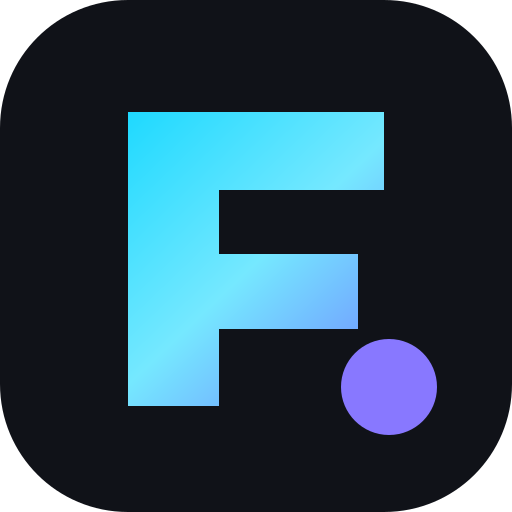
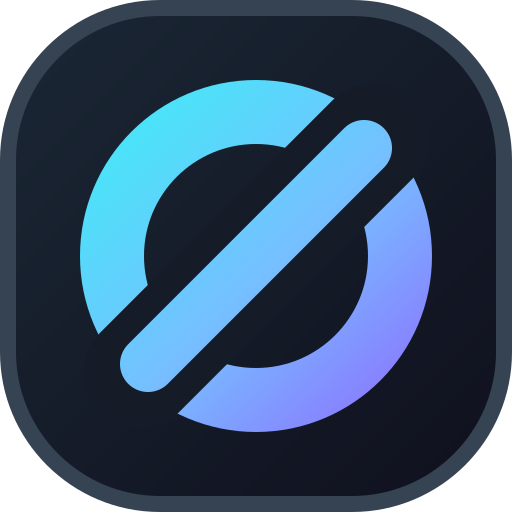
Refresh FlipZero brand and rename landing community to FlipZero HQ (0.9.5)

diff --git a/app/page.tsx b/app/page.tsx
@@ -1,5 +1,6 @@
 import Link from "next/link";
 import { ArrowRight, BookOpen, CalendarDays, Check, ChevronRight, Gamepad2, Hash, KanbanSquare, MessageCircle, Mic2, MonitorUp, ShieldCheck, Sparkles, Trophy, Video } from "lucide-react";
+import { BrandMark } from "@/components/brand-mark";
 
 const features = [
   { icon: MessageCircle, title: "Чаты без ограничений", text: "Личные разговоры, групповые чаты и каналы сообществ. Ответы, реакции, треды, файлы и удобный поиск уже внутри." },
@@ -16,10 +17,10 @@ const spaces = [
 
 export default function LandingPage() {
   return <main className="landing-page">
-    <nav className="landing-nav" aria-label="Главная навигация"><Link href="/" className="landing-logo"><span>FZ</span><strong>FlipZero</strong></Link><div className="landing-links"><a href="#chat">Возможности</a><a href="#voice">Голос и видео</a><a href="#communities">Сообщества</a><a href="#safety">Безопасность</a></div><Link href="/app" className="landing-open">Открыть FlipZero <ArrowRight size={17} /></Link></nav>
+    <nav className="landing-nav" aria-label="Главная навигация"><Link href="/" className="landing-logo"><span className="brand-symbol-wrap"><BrandMark /></span><strong>FlipZero</strong></Link><div className="landing-links"><a href="#chat">Возможности</a><a href="#voice">Голос и видео</a><a href="#communities">Сообщества</a><a href="#safety">Безопасность</a></div><Link href="/app" className="landing-open">Открыть FlipZero <ArrowRight size={17} /></Link></nav>
 
     <section className="landing-hero"><div className="hero-grid" aria-hidden="true" /><div className="hero-glow hero-glow-one" /><div className="hero-glow hero-glow-two" /><div className="hero-copy"><span className="hero-kicker"><Sparkles size={15} /> Новое пространство для общения</span><h1>Ваши люди.<br /><em>Ваше место.</em></h1><p>Чаты, голос, видео, события и знания сообщества — в одном быстром и спокойном интерфейсе.</p><div className="hero-actions"><Link href="/app" className="hero-primary">Открыть FlipZero <ArrowRight size={18} /></Link><Link href="/register" className="hero-secondary">Создать аккаунт</Link></div><small><Check size={14} /> Бесплатно · без банковской карты · работает в браузере</small></div>
-      <div className="product-window" aria-label="Интерфейс FlipZero"><div className="window-bar"><div><i /><i /><i /></div><span>app.flipzero</span><b>FZ</b></div><div className="window-body"><aside className="demo-rail"><b>FZ</b><span className="active">P</span><span>GM</span><span>+</span></aside><aside className="demo-channels"><strong>PUSH Community</strong><small>ОБЩЕНИЕ</small><p className="active"><Hash size={14} /> общий-чат</p><p><Hash size={14} /> идеи</p><p><Hash size={14} /> творчество</p><small>ГОЛОСОВЫЕ</small><p><Mic2 size={14} /> Лаунж</p><p><Gamepad2 size={14} /> Играем вместе</p><div className="demo-user"><i>AP</i><span><b>Alex Push</b><small>Уровень 12</small></span></div></aside><section className="demo-chat"><header><Hash size={18} /><strong>общий-чат</strong><span>Разговоры обо всём</span></header><div className="demo-intro"><b>#</b><h2>Добро пожаловать в общий чат</h2><p>Знакомьтесь, делитесь идеями и создавайте что-то новое вместе.</p></div><div className="demo-message"><i>MK</i><div><b>Mira K. <time>сегодня, 18:24</time></b><p>Собрала идеи для следующего события. Кто хочет присоединиться? ✨</p><span>💜 6</span><span>🔥 4</span></div></div><div className="demo-message"><i className="lime">ZS</i><div><b>Zero System <mark>БОТ</mark></b><p>Новый командный челлендж уже открыт.</p><div className="demo-quest"><Trophy size={18} /><span><small>КОМАНДНЫЙ ЧЕЛЛЕНДЖ</small><strong>На одной волне</strong></span><b>+250 XP</b></div></div></div><div className="demo-composer">Написать в #общий-чат <span>☺</span></div></section><aside className="demo-members"><small>В СЕТИ — 4</small>{["Alex Push","Mira K.","Ilya","Nana"].map((name, index)=><p key={name}><i>{name.split(" ").map(part=>part[0]).join("")}</i><span><b>{name}</b><small>{index ? "В сети" : "Основатель"}</small></span></p>)}</aside></div></div>
+      <div className="product-window" aria-label="Интерфейс FlipZero"><div className="window-bar"><div><i /><i /><i /></div><span>app.flipzero</span><b>FLIPZERO</b></div><div className="window-body"><aside className="demo-rail"><b className="brand-symbol-wrap"><BrandMark size={42} /></b><span className="active">HQ</span><span>GM</span><span>+</span></aside><aside className="demo-channels"><strong>FlipZero HQ</strong><small>ОБЩЕНИЕ</small><p className="active"><Hash size={14} /> общий-чат</p><p><Hash size={14} /> идеи</p><p><Hash size={14} /> творчество</p><small>ГОЛОСОВЫЕ</small><p><Mic2 size={14} /> Лаунж</p><p><Gamepad2 size={14} /> Играем вместе</p><div className="demo-user"><i>AP</i><span><b>Alex Push</b><small>Уровень 12</small></span></div></aside><section className="demo-chat"><header><Hash size={18} /><strong>общий-чат</strong><span>Разговоры обо всём</span></header><div className="demo-intro"><b>#</b><h2>Добро пожаловать в общий чат</h2><p>Знакомьтесь, делитесь идеями и создавайте что-то новое вместе.</p></div><div className="demo-message"><i>MK</i><div><b>Mira K. <time>сегодня, 18:24</time></b><p>Собрала идеи для следующего события. Кто хочет присоединиться? ✨</p><span>💜 6</span><span>🔥 4</span></div></div><div className="demo-message"><i className="lime">ZS</i><div><b>Zero System <mark>БОТ</mark></b><p>Новый командный челлендж уже открыт.</p><div className="demo-quest"><Trophy size={18} /><span><small>КОМАНДНЫЙ ЧЕЛЛЕНДЖ</small><strong>На одной волне</strong></span><b>+250 XP</b></div></div></div><div className="demo-composer">Написать в #общий-чат <span>☺</span></div></section><aside className="demo-members"><small>В СЕТИ — 4</small>{["Alex Push","Mira K.","Ilya","Nana"].map((name, index)=><p key={name}><i>{name.split(" ").map(part=>part[0]).join("")}</i><span><b>{name}</b><small>{index ? "В сети" : "Основатель"}</small></span></p>)}</aside></div></div>
     </section>
 
     <section className="landing-trust"><span>ТЕКСТОВЫЕ КАНАЛЫ</span><span>ГОЛОСОВЫЕ КОМНАТЫ</span><span>ВИДЕО И ЭКРАН</span><span>СОБЫТИЯ</span><span>WIKI</span><span>FORUM</span></section>
@@ -34,6 +35,6 @@ export default function LandingPage() {
 
     <section className="landing-final" id="open"><div><span>ГОТОВЫ НАЧАТЬ?</span><h2>Ваше пространство уже ждёт</h2><p>Создайте сообщество, пригласите друзей и начните разговор прямо в браузере.</p></div><div><Link href="/app">Открыть FlipZero <ArrowRight size={18} /></Link><Link href="/register">Создать аккаунт</Link></div></section>
 
-    <footer className="landing-footer"><div><Link href="/" className="landing-logo"><span>FZ</span><strong>FlipZero</strong></Link><p>Сообщества, живое общение и профиль, который растёт вместе с вами.</p></div><div><strong>Продукт</strong><a href="#chat">Возможности</a><a href="#voice">Голос и видео</a><a href="#communities">Сообщества</a></div><div><strong>Ресурсы</strong><Link href="/app">Открыть приложение</Link><Link href="/api/health">Статус системы</Link><a href="#safety">Безопасность</a></div><div><strong>Начать</strong><Link href="/login">Войти</Link><Link href="/register">Регистрация</Link></div><small>© 2026 FlipZero. Сделано для настоящего общения.</small></footer>
+    <footer className="landing-footer"><div><Link href="/" className="landing-logo"><span className="brand-symbol-wrap"><BrandMark /></span><strong>FlipZero</strong></Link><p>Сообщества, живое общение и профиль, который растёт вместе с вами.</p></div><div><strong>Продукт</strong><a href="#chat">Возможности</a><a href="#voice">Голос и видео</a><a href="#communities">Сообщества</a></div><div><strong>Ресурсы</strong><Link href="/app">Открыть приложение</Link><Link href="/api/health">Статус системы</Link><a href="#safety">Безопасность</a></div><div><strong>Начать</strong><Link href="/login">Войти</Link><Link href="/register">Регистрация</Link></div><small>© 2026 FlipZero. Сделано для настоящего общения.</small></footer>
   </main>;
 }

diff --git a/components/flipzero-app.tsx b/components/flipzero-app.tsx
@@ -22,6 +22,7 @@ import { WikiDialog } from "@/components/wiki-dialog";
 import { DeveloperDialog } from "@/components/developer-dialog";
 import { SystemStatusDialog } from "@/components/system-status-dialog";
 import { AccountSettingsDialog, type AccountProfile } from "@/components/account-settings-dialog";
+import { BrandMark } from "@/components/brand-mark";
 
 type ApiChannel = { id: string; parentId: string | null; name: string; topic: string | null; kind: string; position?: number };
 type ApiCategory = { id: string; spaceId: string; name: string; position: number };
@@ -261,7 +262,7 @@ export default function Home({ initialSpaceId, initialChannelId }: { initialSpac
   return (
     <><main className={`app-shell ${showMembers ? "" : "members-hidden"} ${mobileChannelsOpen ? "mobile-channels-open" : ""}`}>
       <nav className="space-rail" aria-label="Сообщества">
-        <button className="rail-action home-action" aria-label="Главная"><Sparkles size={21} /></button>
+        <button className="rail-action home-action brand-symbol-wrap" aria-label="Главная"><BrandMark size={45} /></button>
         <span className="rail-separator" />
         {spacesLoading ? <LoaderCircle className="rail-loader spin" size={20} /> : userSpaces.map((space) => <button key={space.id} className={`space-button ${space.id === activeSpaceId ? "active" : ""}`} style={{ background: `linear-gradient(145deg, ${space.accentColor}, #7136ad)` }} aria-label={`Сообщество ${space.name}`} title={space.name} onClick={() => { setActiveSpaceId(space.id); const first = space.channels.find((channel) => channel.kind === "text") ?? space.channels[0]; if (first) selectChannel(first.name, first.id, space.id); }}>{space.name.slice(0, 2).toLocaleUpperCase("ru")}</button>)}
         <button className="rail-action add-space" aria-label="Добавить сообщество" onClick={() => setShowCreateSpace(true)}><Plus size={22} /></button>
@@ -272,7 +273,7 @@ export default function Home({ initialSpaceId, initialChannelId }: { initialSpac
       <aside className="channel-panel">
         <button className="mobile-drawer-close" aria-label="Закрыть список каналов" onClick={() => setMobileChannelsOpen(false)}><X size={19} /></button>
         <div className="mobile-space-switcher">{userSpaces.map((space) => <button key={space.id} className={space.id === activeSpaceId ? "active" : ""} style={{ background: `linear-gradient(145deg, ${space.accentColor}, #7136ad)` }} onClick={() => { setActiveSpaceId(space.id); const first = space.channels.find((channel) => channel.kind === "text") ?? space.channels[0]; if (first) selectChannel(first.name, first.id, space.id); }}>{space.name.slice(0, 2).toLocaleUpperCase("ru")}</button>)}<button className="mobile-add-space" onClick={() => setShowCreateSpace(true)}><Plus size={18} /></button></div>
-        <button className="space-heading" aria-label={activeSpace?.ownerId === user?.id ? "Открыть настройки пространства" : "Информация о пространстве"} onClick={() => { if (activeSpace?.ownerId === user?.id) setShowSpaceSettings(true); }}><span className="brand-mark" style={activeSpace ? { background: `linear-gradient(135deg, ${activeSpace.accentColor}, #b33bd4)` } : undefined}>{activeSpace ? activeSpace.name.slice(0, 2).toLocaleUpperCase("ru") : "FZ"}</span><span><strong>{activeSpace?.name ?? "FlipZero"}</strong><small>{activeSpace?.description ?? (userSpaces.length ? "Пространство команды" : "Создайте пространство")}</small></span><ChevronDown size={17} /></button>
+        <button className="space-heading" aria-label={activeSpace?.ownerId === user?.id ? "Открыть настройки пространства" : "Информация о пространстве"} onClick={() => { if (activeSpace?.ownerId === user?.id) setShowSpaceSettings(true); }}><span className={`brand-mark ${activeSpace ? "" : "brand-symbol-wrap"}`} style={activeSpace ? { background: `linear-gradient(135deg, ${activeSpace.accentColor}, #b33bd4)` } : undefined}>{activeSpace ? activeSpace.name.slice(0, 2).toLocaleUpperCase("ru") : <BrandMark size={34} />}</span><span><strong>{activeSpace?.name ?? "FlipZero"}</strong><small>{activeSpace?.description ?? (userSpaces.length ? "Пространство команды" : "Создайте пространство")}</small></span><ChevronDown size={17} /></button>
         <div className="channel-scroll">
           <button className="boost-card" onClick={() => setShowGamification(true)}><span className="boost-icon"><Trophy size={17} /></span><span><strong>Прогресс и награды</strong><small>Уровни, пути и рейтинг</small></span><span className="boost-level">{user?.globalLevel ?? 1}</span></button>
           {activeSpace ? <button className="category-add events-button" onClick={() => setShowEvents(true)}><CalendarDays size={14} /> События сообщества</button> : null}

diff --git a/app/invite/[code]/page.tsx b/app/invite/[code]/page.tsx
@@ -4,6 +4,7 @@ import Link from "next/link";
 import { useParams, useRouter } from "next/navigation";
 import { useEffect, useState } from "react";
 import { ArrowRight, Link2, LoaderCircle, ShieldCheck } from "lucide-react";
+import { BrandMark } from "@/components/brand-mark";
 
 type Invite = { code: string; spaceId: string; spaceName: string; description: string | null; accentColor: string; unavailable: boolean };
 
@@ -26,5 +27,5 @@ export default function InvitePage() {
     router.push(`/channels/${data.spaceId}`); router.refresh();
   }
 
-  return <main className="invite-page"><Link className="auth-brand invite-brand" href="/"><span>FZ</span><strong>FlipZero</strong></Link><section className="invite-card">{loading ? <><LoaderCircle className="spin" size={30} /><h1>Проверяем приглашение</h1></> : invite ? <><div className="invite-space-icon" style={{ background: `linear-gradient(135deg, ${invite.accentColor}, #a83bd0)` }}>{invite.spaceName.slice(0, 2).toLocaleUpperCase("ru")}</div><span className="invite-kicker"><Link2 size={14} /> Вас приглашают</span><h1>{invite.spaceName}</h1><p>{invite.description || "Присоединяйтесь к пространству и начинайте общение."}</p>{error ? <div className="auth-error" role="alert">{error}</div> : null}<button className="auth-submit" onClick={join} disabled={joining || invite.unavailable}>{joining ? <><LoaderCircle className="spin" size={18} /> Вступаем...</> : invite.unavailable ? "Приглашение недоступно" : <>Присоединиться <ArrowRight size={17} /></>}</button><small><ShieldCheck size={13} /> Безопасное приглашение FlipZero</small></> : <><Link2 size={30} /><h1>Ссылка недоступна</h1><p>{error}</p><Link className="invite-home-link" href="/">Вернуться на главную</Link></>}</section></main>;
+  return <main className="invite-page"><Link className="auth-brand invite-brand" href="/"><span className="brand-symbol-wrap"><BrandMark /></span><strong>FlipZero</strong></Link><section className="invite-card">{loading ? <><LoaderCircle className="spin" size={30} /><h1>Проверяем приглашение</h1></> : invite ? <><div className="invite-space-icon" style={{ background: `linear-gradient(135deg, ${invite.accentColor}, #a83bd0)` }}>{invite.spaceName.slice(0, 2).toLocaleUpperCase("ru")}</div><span className="invite-kicker"><Link2 size={14} /> Вас приглашают</span><h1>{invite.spaceName}</h1><p>{invite.description || "Присоединяйтесь к пространству и начинайте общение."}</p>{error ? <div className="auth-error" role="alert">{error}</div> : null}<button className="auth-submit" onClick={join} disabled={joining || invite.unavailable}>{joining ? <><LoaderCircle className="spin" size={18} /> Вступаем...</> : invite.unavailable ? "Приглашение недоступно" : <>Присоединиться <ArrowRight size={17} /></>}</button><small><ShieldCheck size={13} /> Безопасное приглашение FlipZero</small></> : <><Link2 size={30} /><h1>Ссылка недоступна</h1><p>{error}</p><Link className="invite-home-link" href="/">Вернуться на главную</Link></>}</section></main>;
 }

diff --git a/components/auth-shell.tsx b/components/auth-shell.tsx
@@ -1,16 +1,17 @@
 import Link from "next/link";
 import { MessageCircleMore, ShieldCheck, Sparkles, Trophy } from "lucide-react";
+import { BrandMark } from "./brand-mark";
 
 export function AuthShell({ title, description, alternateText, alternateHref, alternateLabel, children }: { title: string; description: string; alternateText: string; alternateHref: string; alternateLabel: string; children: React.ReactNode }) {
   return (
     <main className="auth-page">
       <section className="auth-story">
-        <Link href="/" className="auth-brand" aria-label="FlipZero"><span>FZ</span><strong>FlipZero</strong></Link>
+        <Link href="/" className="auth-brand" aria-label="FlipZero"><span className="brand-symbol-wrap"><BrandMark /></span><strong>FlipZero</strong></Link>
         <div className="auth-story-copy"><span className="auth-kicker"><Sparkles size={15} /> Пространство для своих</span><h1>Общайтесь.<br />Создавайте.<br /><em>Прокачивайтесь.</em></h1><p>Сообщества, живой голос и профиль, который растёт вместе с вами.</p></div>
         <div className="auth-benefits"><span><MessageCircleMore size={18} /> Живые сообщества</span><span><Trophy size={18} /> Уровни и достижения</span><span><ShieldCheck size={18} /> Безопасное общение</span></div>
       </section>
       <section className="auth-form-side">
-        <div className="auth-card"><div className="auth-mobile-brand"><span>FZ</span><strong>FlipZero</strong></div><h2>{title}</h2><p className="auth-description">{description}</p>{children}<p className="auth-alternate">{alternateText} <Link href={alternateHref}>{alternateLabel}</Link></p><small className="auth-legal">Продолжая, вы соглашаетесь с правилами сообщества и политикой конфиденциальности.</small></div>
+        <div className="auth-card"><div className="auth-mobile-brand"><span className="brand-symbol-wrap"><BrandMark /></span><strong>FlipZero</strong></div><h2>{title}</h2><p className="auth-description">{description}</p>{children}<p className="auth-alternate">{alternateText} <Link href={alternateHref}>{alternateLabel}</Link></p><small className="auth-legal">Продолжая, вы соглашаетесь с правилами сообщества и политикой конфиденциальности.</small></div>
       </section>
     </main>
   );

diff --git a/app/pwa-client.tsx b/app/pwa-client.tsx
@@ -2,6 +2,7 @@
 
 import { useEffect, useState } from "react";
 import { Download, Share, WifiOff, X } from "lucide-react";
+import { BrandMark } from "@/components/brand-mark";
 
 interface BeforeInstallPromptEvent extends Event {
   prompt(): Promise<void>;
@@ -48,5 +49,5 @@ export function PwaClient() {
     setShowIosHelp(false);
   }
 
-  return <>{!online ? <div className="offline-toast" role="status"><WifiOff size={15} /> Нет соединения. Ждём восстановления сети…</div> : null}{showInstall ? <aside className="install-app-card" aria-label="Установить FlipZero"><button className="install-close" onClick={dismiss} aria-label="Закрыть"><X size={15} /></button><span className="install-mark">FZ</span><div><strong>Установить FlipZero</strong><small>{showIosHelp ? <>Откройте в Safari, нажмите <Share size={14} aria-label="Поделиться" /> «Поделиться» → «На экран Домой».</> : "Откройте чаты как отдельное приложение."}</small></div><button className="install-action" onClick={showIosHelp ? dismiss : install}>{showIosHelp ? null : <Download size={15} />} {showIosHelp ? "Понятно" : "Установить"}</button></aside> : null}</>;
+  return <>{!online ? <div className="offline-toast" role="status"><WifiOff size={15} /> Нет соединения. Ждём восстановления сети…</div> : null}{showInstall ? <aside className="install-app-card" aria-label="Установить FlipZero"><button className="install-close" onClick={dismiss} aria-label="Закрыть"><X size={15} /></button><span className="install-mark brand-symbol-wrap"><BrandMark /></span><div><strong>Установить FlipZero</strong><small>{showIosHelp ? <>Откройте в Safari, нажмите <Share size={14} aria-label="Поделиться" /> «Поделиться» → «На экран Домой».</> : "Откройте чаты как отдельное приложение."}</small></div><button className="install-action" onClick={showIosHelp ? dismiss : install}>{showIosHelp ? null : <Download size={15} />} {showIosHelp ? "Понятно" : "Установить"}</button></aside> : null}</>;
 }

diff --git a/public/sw.js b/public/sw.js
@@ -1,5 +1,5 @@
-const CACHE_NAME = "flipzero-shell-v2";
-const SHELL = ["/offline", "/favicon.svg", "/apple-touch-icon.png", "/pwa-icon-192.png", "/pwa-icon-512.png", "/pwa-icon-maskable.png"];
+const CACHE_NAME = "flipzero-shell-v3";
+const SHELL = ["/offline", "/brand-mark.svg", "/favicon.svg", "/apple-touch-icon.png", "/pwa-icon-192.png", "/pwa-icon-512.png", "/pwa-icon-maskable.png"];
 
 self.addEventListener("install", (event) => {
   event.waitUntil(caches.open(CACHE_NAME).then((cache) => cache.addAll(SHELL)).then(() => self.skipWaiting()));
@@ -18,7 +18,7 @@ self.addEventListener("fetch", (event) => {
     event.respondWith(fetch(request).catch(() => caches.match("/offline")));
     return;
   }
-  const publicAsset = url.pathname.startsWith("/_next/static/") || url.pathname === "/favicon.svg" || url.pathname === "/apple-touch-icon.png" || url.pathname.startsWith("/pwa-icon-");
+  const publicAsset = url.pathname.startsWith("/_next/static/") || url.pathname === "/brand-mark.svg" || url.pathname === "/favicon.svg" || url.pathname === "/apple-touch-icon.png" || url.pathname.startsWith("/pwa-icon-");
   if (publicAsset && ["style", "script", "image", "font"].includes(request.destination)) {
     event.respondWith(caches.match(request).then((cached) => cached || fetch(request).then((response) => { if (response.ok) { const copy = response.clone(); void caches.open(CACHE_NAME).then((cache) => cache.put(request, copy)); } return response; })));
   }

diff --git a/components/account-settings-dialog.tsx b/components/account-settings-dialog.tsx
@@ -3,6 +3,7 @@
 import { type FormEvent, useEffect, useRef, useState } from "react";
 import { useRouter } from "next/navigation";
 import { AtSign, Check, KeyRound, LoaderCircle, LogOut, ShieldCheck, UserRound, X } from "lucide-react";
+import { BrandMark } from "./brand-mark";
 
 export type AccountProfile = {
   id: string;
@@ -78,7 +79,7 @@ export function AccountSettingsDialog({ user, onClose, onSaved }: { user: Accoun
   return <div className="dialog-backdrop account-backdrop" role="presentation" onMouseDown={(event) => { if (event.target === event.currentTarget) onClose(); }}>
     <section className="account-settings" role="dialog" aria-modal="true" aria-labelledby="account-settings-title">
       <aside className="account-settings-nav">
-        <div className="account-settings-brand"><span>FZ</span><strong>FlipZero</strong></div>
+        <div className="account-settings-brand"><span className="brand-symbol-wrap"><BrandMark /></span><strong>FlipZero</strong></div>
         <small className="account-nav-label">НАСТРОЙКИ ПОЛЬЗОВАТЕЛЯ</small>
         <button type="button" className={section === "profile" ? "active" : ""} onClick={() => openSection("profile")}><UserRound size={18} /> Мой профиль</button>
         <button type="button" className={section === "security" ? "active" : ""} onClick={() => openSection("security")}><ShieldCheck size={18} /> Аккаунт и безопасность</button>

diff --git a/app/communities/[slug]/page.tsx b/app/communities/[slug]/page.tsx
@@ -3,6 +3,7 @@ import { and, asc, eq, sql } from "drizzle-orm";
 import { Hash, ShieldCheck, Sparkles, Users } from "lucide-react";
 import { notFound } from "next/navigation";
 import { CommunityActions } from "@/components/community-actions";
+import { BrandMark } from "@/components/brand-mark";
 import { getDatabase } from "@/db/client";
 import { channels, members, spaces } from "@/db/schema";
 import { getCurrentUser } from "@/lib/auth";
@@ -28,7 +29,7 @@ export default async function CommunityPage({ params, searchParams }: { params: 
   const selectedChannel = requestedChannelRows[0] ?? channelRows[0] ?? null;
 
   return <main className="community-page">
-    <nav className="community-nav"><Link href="/" className="community-logo"><span>FZ</span><strong>FlipZero</strong></Link><Link href="/app">Открыть приложение</Link></nav>
+    <nav className="community-nav"><Link href="/" className="community-logo"><span className="brand-symbol-wrap"><BrandMark /></span><strong>FlipZero</strong></Link><Link href="/app">Открыть приложение</Link></nav>
     <section className="community-hero" style={{ "--community-accent": space.accentColor } as React.CSSProperties}>
       <div className="community-glow" />
       <div className="community-banner" style={space.bannerUrl ? { backgroundImage: `linear-gradient(180deg, transparent, rgba(8, 9, 13, .88)), url(${space.bannerUrl})` } : undefined}>

diff --git a/app/offline/page.tsx b/app/offline/page.tsx
@@ -1,6 +1,7 @@
 import Link from "next/link";
 import { RefreshCw, WifiOff } from "lucide-react";
+import { BrandMark } from "@/components/brand-mark";
 
 export default function OfflinePage() {
-  return <main className="offline-page"><section><span className="offline-logo">FZ</span><div className="offline-icon"><WifiOff size={30} /></div><p className="offline-kicker">НЕТ СОЕДИНЕНИЯ</p><h1>FlipZero временно офлайн</h1><p>Проверьте интернет и попробуйте снова. Ваши сообщения и личные данные не сохраняются в публичном offline-кеше.</p><Link href="/"><RefreshCw size={17} /> Проверить соединение</Link></section></main>;
+  return <main className="offline-page"><section><span className="offline-logo brand-symbol-wrap"><BrandMark /></span><div className="offline-icon"><WifiOff size={30} /></div><p className="offline-kicker">НЕТ СОЕДИНЕНИЯ</p><h1>FlipZero временно офлайн</h1><p>Проверьте интернет и попробуйте снова. Ваши сообщения и личные данные не сохраняются в публичном offline-кеше.</p><Link href="/"><RefreshCw size={17} /> Проверить соединение</Link></section></main>;
 }

diff --git a/app/product-theme.css b/app/product-theme.css
@@ -664,3 +664,19 @@
     animation-iteration-count: 1 !important;
   }
 }
+
+/* One mark for the navigation, app, dialogs and install surfaces. */
+.brand-symbol-wrap {
+  padding: 0 !important;
+  border: 0 !important;
+  background: transparent !important;
+  box-shadow: none !important;
+  overflow: hidden;
+}
+.brand-symbol-wrap .brand-symbol {
+  display: block;
+  width: 100%;
+  height: 100%;
+  object-fit: contain;
+}
+.home-action.brand-symbol-wrap:hover { transform: translateY(-1px); }

diff --git a/app/api/health/route.ts b/app/api/health/route.ts
@@ -36,7 +36,7 @@ export async function GET(request: Request) {
   return NextResponse.json({
     service: "flipzero-web",
     status: healthy ? "ok" : "degraded",
-    version: "0.9.4",
+    version: "0.9.5",
     timestamp: new Date().toISOString(),
     durationMs,
     deployment: {

diff --git a/components/brand-mark.tsx b/components/brand-mark.tsx
@@ -1,0 +1,5 @@
+import Image from "next/image";
+
+export function BrandMark({ size = 40 }: { size?: number }) {
+  return <Image src="/brand-mark.svg" alt="" width={size} height={size} unoptimized className="brand-symbol" />;
+}
